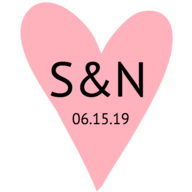
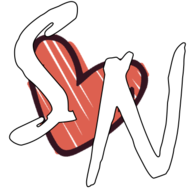
Update images

diff --git a/css/styles.min.css b/css/styles.min.css
@@ -1,1 +1,1 @@
-@import url(https://fonts.googleapis.com/css?family=Open+Sans:300italic,400italic,600italic,700italic,800italic,400,300,600,700,800);@import url(https://fonts.googleapis.com/css?family=Merriweather:400,300,400italic,300italic,700,700italic);@import url(https://fonts.googleapis.com/css?family=Nunito:400,300,700);p{font-size:15px;line-height:29px;color:rgba(28,54,83,0.6);padding-bottom:20px}h1{font-size:60px}h2{font-size:40px;font-weight:300;color:#3D4351}h3{color:#3D4351;font-size:18px;font-weight:700;text-transform:uppercase;letter-spacing:3px;line-height:29px}h4{font-size:18px}h5{font-size:15px;color:#3D4351;text-transform:uppercase;font-weight:500}.btn{font-size:13px;border:solid 2px;-moz-border-radius:40px;-webkit-border-radius:40px;border-radius:40px;display:inline-block;text-transform:uppercase}.btn:hover,.btn:focus{color:#fff;border-color:#e8ca6f;background-color:#e8ca6f}.btn-white{font-size:13px;border:solid 2px;-moz-border-radius:40px;-webkit-border-radius:40px;border-radius:40px;display:inline-block;border-color:#fff}.btn-white:hover,.btn-white:focus{color:#e8ca6f;border-color:#e8ca6f}.btn-fill{color:#fff;border:solid 2px #e8ca6f;-moz-border-radius:40px;-webkit-border-radius:40px;border-radius:40px;display:inline-block;text-transform:uppercase;background-color:#e8ca6f}.btn-fill:hover,.btn-fill:focus{color:#fff;background-color:#d3b56a;border-color:#d3b56a}.btn-small{padding:8px 30px}.btn-large{padding:15px 40px}.btn-margin-right{margin-right:20px}section.intro,section.features-extra,section.rsvp{background:#fff}section.features,section.events,section.blog{background:#f8f9fd}.group:after{content:"";display:table;clear:both}.no-padding{padding:0}.no-margin{margin:0}a{color:#e8ca6f;-webkit-transition-timing-function:ease;transition-timing-function:ease;-webkit-transition-duration:200ms;transition-duration:200ms;-webkit-transition-property:color, border-color, background-color;transition-property:color, border-color, background-color}a:hover,a:focus{color:#d3b56a;text-decoration:none}body{font-family:"Open Sans",sans-serif;font-weight:300;color:rgba(28,54,83,0.6);-webkit-text-size-adjust:100%}*:focus{outline:none !important}ul,ol{margin:0;padding:0}ul li{list-style:none}section .header{padding-bottom:30px}.section-padding{padding:40px 0}.section-border{border-bottom:1px solid #E6E9EA}.tooltip{position:absolute;z-index:1070;display:block;font-family:"Helvetica Neue", Helvetica, Arial, sans-serif;font-size:12px;font-weight:normal;line-height:1.4;visibility:visible;filter:alpha(opacity=0);opacity:0}.tooltip.in{filter:alpha(opacity=90);opacity:.9}.tooltip.top{padding:5px 0;margin-top:-3px}.tooltip.right{padding:0 5px;margin-left:3px}.tooltip.bottom{padding:5px 0;margin-top:3px}.tooltip.left{padding:0 5px;margin-left:-3px}.tooltip-inner{max-width:200px;padding:3px 8px;color:#fff;text-align:center;text-decoration:none;text-transform:capitalize;background-color:#000;border-radius:4px}.pulse2{animation-name:pulse2;animation-duration:1s;animation-iteration-count:infinite;animation-timing-function:linear}@keyframes pulse2{0%{transform:scale(1.1)}50%{transform:scale(0.8)}100%{transform:scale(1)}}.floating-arrow{animation-name:floating-arrow;animation-duration:2s;animation-iteration-count:infinite;animation-timing-function:ease-in-out}@keyframes floating-arrow{from{transform:translate(-50%, 0)}65%{transform:translate(-50%, 15px)}to{transform:translate(-50%, 0)}}.floating-logo{animation-name:floating-logo;animation-duration:2s;animation-iteration-count:infinite;animation-timing-function:ease-in-out}@keyframes floating-logo{from{transform:translate(-50%, 0)}50%{transform:translate(-50%, 10px)}to{transform:translate(-50%, 0)}}.wp1,.wp2,.wp3,.wp4,.wp5,.wp6,.wp7,.wp8,.wp9{visibility:hidden}.wp8,.wp9{-webkit-animation-delay:0.3s;animation-delay:0.3s}.bounceInLeft,.bounceInRight,.fadeInUp,.fadeInUpDelay,.fadeInDown,.fadeInUpD,.fadeInLeft,.fadeInRight,.bounceInDown{visibility:visible}.header-nav.open{visibility:visible;opacity:0.9;-webkit-transition:opacity 0.5s;transition:opacity 0.5s}.nav-toggle{position:absolute;top:0;right:15px;z-index:999999;padding:10px 35px 16px 0;cursor:pointer}.nav-toggle:focus{outline:none}.nav-toggle span,.nav-toggle span:before,.nav-toggle span:after{content:"";position:absolute;display:block;width:35px;height:3px;-moz-border-radius:1px;-webkit-border-radius:1px;border-radius:1px;background:#fff;cursor:pointer}.nav-toggle span:before{top:-10px}.nav-toggle span:after{bottom:-10px}.nav-toggle span,.nav-toggle span:before,.nav-toggle span:after{-moz-transition:all 300ms ease-in-out;-o-transition:all 300ms ease-in-out;-webkit-transition:all 300ms ease-in-out;transition:all 300ms ease-in-out}.nav-toggle.active span{background-color:transparent}.nav-toggle.active span:before,.nav-toggle.active span:after{top:0}.nav-toggle.active span:before{-moz-transform:rotate(45deg);-ms-transform:rotate(45deg);-o-transform:rotate(45deg);-webkit-transform:rotate(45deg);transform:rotate(45deg)}.nav-toggle.active span:after{top:10px;-moz-transform:translatey(-10px) rotate(-45deg);-ms-transform:translatey(-10px) rotate(-45deg);-o-transform:translatey(-10px) rotate(-45deg);-webkit-transform:translatey(-10px) rotate(-45deg);transform:translatey(-10px) rotate(-45deg)}.navicon{position:absolute;height:26px;right:10px;top:48px;visibility:hidden;transition:all 300ms ease-in-out}.hero{min-height:750px;background:url("../img/hero-min.jpg") center center;-webkit-background-size:cover;-moz-background-size:cover;-o-background-size:cover;background-size:cover;position:relative}.hero .down-arrow a{color:#fff}.hero h1{color:#fff;margin-bottom:40px}.hero p.intro{color:#fff;font-size:20px;font-weight:300;margin-bottom:80px}.hero .hero-content{padding-top:40%}.hero .hero-content img{width:55%;margin-bottom:12%}.navigation{transition:all 300ms ease-in-out;position:fixed;width:100%;z-index:999}.fixed{position:fixed;background-color:rgba(55,36,40,0.88);z-index:999;width:100%}.fixed a{color:#fff}header{padding:50px 0;border-bottom:solid 1px rgba(255,255,255,0.2);position:relative;width:1170px;margin:0 auto;transition:padding 300ms ease-in-out}header a{color:rgba(28,54,83,0.6);text-transform:uppercase;font-size:13px}header a.login{margin-right:20px}header .logo{display:inline-block}header .logo img{height:19px}header ul.primary-nav{margin:0 0 0 75px;padding:0}header ul.primary-nav li{display:inline}header ul.primary-nav li a{padding-right:25px}header ul.primary-nav li a:hover{color:#e8ca6f}header ul.primary-nav li:last-child a{padding-right:0px}header ul.member-actions li{display:inline}header ul.member-actions li a{color:#fff}header ul.member-actions li a:hover{color:#e8ca6f}header .header-nav{display:inline-block}header .member-actions{position:absolute;right:0;top:41px;transition:all 300ms ease-in-out}.down-arrow{color:#fff;font-size:30px;position:absolute;bottom:30px;left:50%;transform:translateX(-50%)}.share-bar{margin-top:20px}.intro span.icon{font-size:40px;color:#e8ca6f;font-weight:bold}.intro-icon{display:inline-block;vertical-align:top;padding:6px 0 0 0;margin-right:20px;width:40px}.intro-content{display:inline-block;width:80%}#intro{padding-top:40px}#intro img{width:100%;height:auto}#intro p{text-align:center}.features{position:relative}.features p{margin-bottom:0;padding-bottom:0}.features h3{margin:0 0 20px 0}.features span.icon{font-size:35px;color:#e8ca6f;font-weight:bold}.features .feature-icon{display:inline-block;vertical-align:top;padding:6px 0 0 0;margin-right:20px;width:35px}.features .feature-content{display:inline-block;width:75%}.features .intro-icon{display:inline-block;vertical-align:top;padding:6px 0 0 0;margin-right:20px}.features .intro-content{display:inline-block;width:80%}.features ul.features-stack{margin-top:50px}.features ul.features-stack li{margin-top:20px;padding-bottom:20px;border-bottom:solid 1px #E6E9EA}.features ul.features-stack li:last-child{padding-bottom:0px;border-bottom:none}.features .ipad-wrap{width:706px;height:1002px;background:url("../img/ipad-device.png") no-repeat center center;z-index:1}.features .iphone-wrap{width:304px;height:620px;background:url("../img/iphone6.png") no-repeat center center;position:absolute;left:530px;bottom:129px;z-index:2}.features .device-showcase{position:absolute;bottom:-365px;right:61%}.features .responsive-feature-img,.features-extra .responsive-feature-img{display:none}.devices{position:relative}.features-extra{position:relative;z-index:3}.features-extra .btn{margin-top:20px}.features-extra .macbook-wrap{position:absolute;width:916px;height:540px;background:url("../img/macbook-pro.png") no-repeat center center;top:114px;z-index:4;left:50%}.hero-strip{margin-top:120px;background:#333844 url("../img/polygonal-bg.jpg") no-repeat center center;padding-bottom:190px;position:relative}.hero-strip i{font-family:"Nunito",sans-serif;font-weight:300;font-size:25px;color:#F69D52;vertical-align:top;margin-left:-8px;font-style:normal}.hero-strip h2{color:#fff;margin:0 0 20px 0}.hero-strip p{color:#ACB1B4}.hero-strip .btn{margin-top:10px}.hero-strip .logo-placeholder{width:230px;height:230px;position:absolute;bottom:-285px;left:50%;transform:translateX(-50%)}.events .leftcol{padding-right:100px;border-right:solid 1px #E6E9EA}.events .rightcol{padding-left:100px}.events .time{font-size:13px;font-style:italic;text-transform:lowercase;color:rgba(28,54,83,0.6)}.blog{padding-bottom:120px}.blog img{width:100%;height:auto;-moz-transition:all 300ms ease-in-out;-o-transition:all 300ms ease-in-out;-webkit-transition:all 300ms ease-in-out;transition:all 300ms ease-in-out}.blog h2{font-size:11px;color:#ACB1B4;font-weight:500;text-transform:uppercase;margin-top:35px}.blog .btn{margin-top:20px}.blog .blog-img-wrap{position:relative;overflow:hidden}.blog .blog-img-wrap .overlay{position:absolute;width:100%;height:100%;background-color:rgba(255,255,255,0.5);-moz-transition:all 300ms ease-in-out;-o-transition:all 300ms ease-in-out;-webkit-transition:all 300ms ease-in-out;transition:all 300ms ease-in-out;-ms-filter:"progid:DXImageTransform.Microsoft.Alpha(Opacity=0)";filter:alpha(opacity=0);opacity:0}.blog .blog-img-wrap i{color:#fff;font-size:20px;position:absolute;width:20px;height:20px;top:25px;right:35px}.blog .blog-img-wrap:hover img,.blog .blog-img-wrap:focus img{-moz-transform:scale(1.1);-ms-transform:scale(1.1);-o-transform:scale(1.1);-webkit-transform:scale(1.1);transform:scale(1.1)}.blog .blog-img-wrap:hover .overlay,.blog .blog-img-wrap:focus .overlay{-ms-filter:"progid:DXImageTransform.Microsoft.Alpha(Opacity=1)";filter:alpha(opacity=1);opacity:1;z-index:9}.blog figcaption i{margin-left:5px;font-size:15px}.blog figcaption a.blog-post-title{color:rgba(28,54,83,0.6)}.blog figcaption a.blog-post-title:hover,.blog figcaption a.blog-post-title:focus{color:#3D4351}#instagram img{width:100%}#eng-pics img{width:100%;height:auto;-moz-transition:all 300ms ease-in-out;-o-transition:all 300ms ease-in-out;-webkit-transition:all 300ms ease-in-out;transition:all 300ms ease-in-out}#eng-pics .img-wrap{position:relative;overflow:hidden;border-radius:4px}#eng-pics .img-wrap .overlay{position:absolute;width:100%;height:100%;background-color:rgba(255,255,255,0.5);-moz-transition:all 300ms ease-in-out;-o-transition:all 300ms ease-in-out;-webkit-transition:all 300ms ease-in-out;transition:all 300ms ease-in-out;-ms-filter:"progid:DXImageTransform.Microsoft.Alpha(Opacity=0)";filter:alpha(opacity=0);opacity:0}#eng-pics .img-wrap i{color:#fff;font-size:15px;position:absolute;width:15px;height:15px;top:6px;right:6px}#eng-pics .img-wrap:hover img,#eng-pics .img-wrap:focus img{-moz-transform:scale(1.1);-ms-transform:scale(1.1);-o-transform:scale(1.1);-webkit-transform:scale(1.1);transform:scale(1.1)}#eng-pics .img-wrap:hover .overlay,#eng-pics .img-wrap:focus .overlay{-ms-filter:"progid:DXImageTransform.Microsoft.Alpha(Opacity=1)";filter:alpha(opacity=1);opacity:1;z-index:9}#eng-pics .diamond{width:230px;height:230px;position:absolute;bottom:-145px;left:50%;transform:translateX(-50%);z-index:500}#eng-pics .ring{width:75px;height:75px;border-radius:75px;border:10px solid #d0d3d4;position:absolute;left:34%;top:75%;z-index:-1}#video-bg{height:300px}#video-content{width:100%;height:100%;padding-top:100px;position:relative;background:rgba(17,17,17,0.5);text-align:center}#video-content h5{color:#ffffff;font-size:30px;font-weight:300;letter-spacing:10px}#video-content p{color:#ffffff}#map-canvas{height:500px;width:100%}#map-content-wrapper{position:relative;margin-top:-502px;margin-bottom:150px}#map-content{margin-top:40px;padding:50px 60px;background:#fff;-webkit-transition:opacity 0.5s, visibility 0.6s, margin-top 0.5s;transition:opacity 0.5s, visibility 0.6s, margin-top 0.5s}#btn-show-content{padding:20px;background:#fff;cursor:pointer;display:inline-block;-webkit-transition:opacity 0.5s, visibility 0.6s, margin-top 0.5s;transition:opacity 0.5s, visibility 0.6s, margin-top 0.5s}.toggle-map-content{opacity:0;visibility:hidden}.pointer-events-none{pointer-events:none}.pointer-events-auto{pointer-events:auto}.rsvp{padding-bottom:140px}.rsvp .rsvp-form .rsvp-btn{padding:15px 0;border-radius:3px;width:100%;font-size:13px}.rsvp .rsvp-form .form-input-group{width:100%;height:55px;margin:0 auto 10px;-moz-border-radius:5px;-webkit-border-radius:5px;border-radius:5px;border:solid 1px #E6E9EA;text-align:left;position:relative}.rsvp .rsvp-form .form-input-group i{color:#e8ca6f;font-size:14px}.rsvp .rsvp-form .form-input-group i:after{content:"";height:30px;width:1px;border-right:solid 1px #E6E9EA;position:absolute;top:50%;left:30px;transform:translateY(-50%)}.rsvp .rsvp-form .form-input-group i.fa-user,.rsvp .rsvp-form .form-input-group i.fa-users,.rsvp .rsvp-form .form-input-group i.fa-envelope,.rsvp .rsvp-form .form-input-group .fa-key{font-size:14px;position:absolute;top:50%;transform:translateY(-50%);margin-left:20px}.rsvp .rsvp-form .form-input-group input{padding-left:68px;width:100%;height:100%;-moz-border-radius:6px;-webkit-border-radius:6px;border-radius:6px;border:none}.rsvp .rsvp-form .form-input-group input::-webkit-input-placeholder{color:#BCC1C3}.rsvp .rsvp-form .form-input-group input:-moz-placeholder{color:#BCC1C3}.rsvp .rsvp-form .form-input-group input::-moz-placeholder{color:#BCC1C3}.rsvp .rsvp-form .form-input-group input:-ms-input-placeholder{color:#BCC1C3}footer .content{border-top:1px solid #E6E9EA;padding-bottom:20px}footer .to-top-wrapper{font-size:30px;display:block;cursor:pointer;margin:-25px auto 50px;border-radius:50%;width:50px;height:50px;border:1px solid #E6E9EA;background:#fff}footer .to-top-wrapper .to-top{display:block;-webkit-transition:all .3s ease-in-out;-moz-transition:all .3s ease-in-out;-ms-transition:all .3s ease-in-out;-o-transition:all .3s ease-in-out;transition:all .3s ease-in-out}footer .to-top-wrapper .to-top:hover{margin-top:-5px}footer span.fa-heart{color:#ff415c;font-size:18px;margin:0 2px}body.modal-open{padding-right:0 !important}.modal-body{padding:25px}
+@import url(https://fonts.googleapis.com/css?family=Open+Sans:300italic,400italic,600italic,700italic,800italic,400,300,600,700,800);@import url(https://fonts.googleapis.com/css?family=Merriweather:400,300,400italic,300italic,700,700italic);@import url(https://fonts.googleapis.com/css?family=Nunito:400,300,700);p{font-size:15px;line-height:29px;color:rgba(28,54,83,0.6);padding-bottom:20px}h1{font-size:60px}h2{font-size:40px;font-weight:300;color:#3D4351}h3{color:#3D4351;font-size:18px;font-weight:700;text-transform:uppercase;letter-spacing:3px;line-height:29px}h4{font-size:18px}h5{font-size:15px;color:#3D4351;text-transform:uppercase;font-weight:500}.btn{font-size:13px;border:solid 2px;-moz-border-radius:40px;-webkit-border-radius:40px;border-radius:40px;display:inline-block;text-transform:uppercase}.btn:hover,.btn:focus{color:#fff;border-color:#e8ca6f;background-color:#e8ca6f}.btn-white{font-size:13px;border:solid 2px;-moz-border-radius:40px;-webkit-border-radius:40px;border-radius:40px;display:inline-block;border-color:#fff}.btn-white:hover,.btn-white:focus{color:#e8ca6f;border-color:#e8ca6f}.btn-fill{color:#fff;border:solid 2px #e8ca6f;-moz-border-radius:40px;-webkit-border-radius:40px;border-radius:40px;display:inline-block;text-transform:uppercase;background-color:#e8ca6f}.btn-fill:hover,.btn-fill:focus{color:#fff;background-color:#d3b56a;border-color:#d3b56a}.btn-small{padding:8px 30px}.btn-large{padding:15px 40px}.btn-margin-right{margin-right:20px}section.intro,section.features-extra,section.rsvp{background:#fff}section.features,section.events,section.blog{background:#f8f9fd}.group:after{content:"";display:table;clear:both}.no-padding{padding:0}.no-margin{margin:0}a{color:#e8ca6f;-webkit-transition-timing-function:ease;transition-timing-function:ease;-webkit-transition-duration:200ms;transition-duration:200ms;-webkit-transition-property:color, border-color, background-color;transition-property:color, border-color, background-color}a:hover,a:focus{color:#d3b56a;text-decoration:none}body{font-family:"Open Sans",sans-serif;font-weight:300;color:rgba(28,54,83,0.6);-webkit-text-size-adjust:100%}*:focus{outline:none !important}ul,ol{margin:0;padding:0}ul li{list-style:none}section .header{padding-bottom:30px}.section-padding{padding:40px 0}.section-border{border-bottom:1px solid #E6E9EA}.tooltip{position:absolute;z-index:1070;display:block;font-family:"Helvetica Neue", Helvetica, Arial, sans-serif;font-size:12px;font-weight:normal;line-height:1.4;visibility:visible;filter:alpha(opacity=0);opacity:0}.tooltip.in{filter:alpha(opacity=90);opacity:.9}.tooltip.top{padding:5px 0;margin-top:-3px}.tooltip.right{padding:0 5px;margin-left:3px}.tooltip.bottom{padding:5px 0;margin-top:3px}.tooltip.left{padding:0 5px;margin-left:-3px}.tooltip-inner{max-width:200px;padding:3px 8px;color:#fff;text-align:center;text-decoration:none;text-transform:capitalize;background-color:#000;border-radius:4px}.pulse2{animation-name:pulse2;animation-duration:1s;animation-iteration-count:infinite;animation-timing-function:linear}@keyframes pulse2{0%{transform:scale(1.1)}50%{transform:scale(0.8)}100%{transform:scale(1)}}.floating-arrow{animation-name:floating-arrow;animation-duration:2s;animation-iteration-count:infinite;animation-timing-function:ease-in-out}@keyframes floating-arrow{from{transform:translate(-50%, 0)}65%{transform:translate(-50%, 15px)}to{transform:translate(-50%, 0)}}.floating-logo{animation-name:floating-logo;animation-duration:2s;animation-iteration-count:infinite;animation-timing-function:ease-in-out}@keyframes floating-logo{from{transform:translate(-50%, 0)}50%{transform:translate(-50%, 10px)}to{transform:translate(-50%, 0)}}.wp1,.wp2,.wp3,.wp4,.wp5,.wp6,.wp7,.wp8,.wp9{visibility:hidden}.wp8,.wp9{-webkit-animation-delay:0.3s;animation-delay:0.3s}.bounceInLeft,.bounceInRight,.fadeInUp,.fadeInUpDelay,.fadeInDown,.fadeInUpD,.fadeInLeft,.fadeInRight,.bounceInDown{visibility:visible}.header-nav.open{visibility:visible;opacity:0.9;-webkit-transition:opacity 0.5s;transition:opacity 0.5s}.nav-toggle{position:absolute;top:0;right:15px;z-index:999999;padding:10px 35px 16px 0;cursor:pointer}.nav-toggle:focus{outline:none}.nav-toggle span,.nav-toggle span:before,.nav-toggle span:after{content:"";position:absolute;display:block;width:35px;height:3px;-moz-border-radius:1px;-webkit-border-radius:1px;border-radius:1px;background:#fff;cursor:pointer}.nav-toggle span:before{top:-10px}.nav-toggle span:after{bottom:-10px}.nav-toggle span,.nav-toggle span:before,.nav-toggle span:after{-moz-transition:all 300ms ease-in-out;-o-transition:all 300ms ease-in-out;-webkit-transition:all 300ms ease-in-out;transition:all 300ms ease-in-out}.nav-toggle.active span{background-color:transparent}.nav-toggle.active span:before,.nav-toggle.active span:after{top:0}.nav-toggle.active span:before{-moz-transform:rotate(45deg);-ms-transform:rotate(45deg);-o-transform:rotate(45deg);-webkit-transform:rotate(45deg);transform:rotate(45deg)}.nav-toggle.active span:after{top:10px;-moz-transform:translatey(-10px) rotate(-45deg);-ms-transform:translatey(-10px) rotate(-45deg);-o-transform:translatey(-10px) rotate(-45deg);-webkit-transform:translatey(-10px) rotate(-45deg);transform:translatey(-10px) rotate(-45deg)}.navicon{position:absolute;height:26px;right:10px;top:48px;visibility:hidden;transition:all 300ms ease-in-out}.hero{min-height:750px;background:url("../img/hero-min.jpg") center center;-webkit-background-size:cover;-moz-background-size:cover;-o-background-size:cover;background-size:cover;position:relative}.hero .down-arrow a{color:#fff}.hero h1{color:#fff;margin-bottom:40px}.hero p.intro{color:#fff;font-size:20px;font-weight:300;margin-bottom:80px}.hero .hero-content{padding-top:40%}.hero .hero-content img{width:55%;margin-bottom:12%;margin-top:10%}.navigation{transition:all 300ms ease-in-out;position:fixed;width:100%;z-index:999}.fixed{position:fixed;background-color:rgba(55,36,40,0.88);z-index:999;width:100%}.fixed a{color:#fff}header{padding:50px 0;border-bottom:solid 1px rgba(255,255,255,0.2);position:relative;width:1170px;margin:0 auto;transition:padding 300ms ease-in-out}header a{color:rgba(28,54,83,0.6);text-transform:uppercase;font-size:13px}header a.login{margin-right:20px}header .logo{display:inline-block}header .logo img{height:42px;width:42px}header ul.primary-nav{margin:0 0 0 75px;padding:0}header ul.primary-nav li{display:inline}header ul.primary-nav li a{padding-right:25px}header ul.primary-nav li a:hover{color:#e8ca6f}header ul.primary-nav li:last-child a{padding-right:0px}header ul.member-actions li{display:inline}header ul.member-actions li a{color:#fff}header ul.member-actions li a:hover{color:#e8ca6f}header .header-nav{display:inline-block}header .member-actions{position:absolute;right:0;top:41px;transition:all 300ms ease-in-out}.down-arrow{color:#fff;font-size:30px;position:absolute;bottom:30px;left:50%;transform:translateX(-50%)}.share-bar{margin-top:20px}.intro span.icon{font-size:40px;color:#e8ca6f;font-weight:bold}.intro-icon{display:inline-block;vertical-align:top;padding:6px 0 0 0;margin-right:20px;width:40px}.intro-content{display:inline-block;width:80%}#intro{padding-top:40px}#intro img{width:100%;height:auto}#intro p{text-align:center}.features{position:relative}.features p{margin-bottom:0;padding-bottom:0}.features h3{margin:0 0 20px 0}.features span.icon{font-size:35px;color:#e8ca6f;font-weight:bold}.features .feature-icon{display:inline-block;vertical-align:top;padding:6px 0 0 0;margin-right:20px;width:35px}.features .feature-content{display:inline-block;width:75%}.features .intro-icon{display:inline-block;vertical-align:top;padding:6px 0 0 0;margin-right:20px}.features .intro-content{display:inline-block;width:80%}.features ul.features-stack{margin-top:50px}.features ul.features-stack li{margin-top:20px;padding-bottom:20px;border-bottom:solid 1px #E6E9EA}.features ul.features-stack li:last-child{padding-bottom:0px;border-bottom:none}.features .ipad-wrap{width:706px;height:1002px;background:url("../img/ipad-device.png") no-repeat center center;z-index:1}.features .iphone-wrap{width:304px;height:620px;background:url("../img/iphone6.png") no-repeat center center;position:absolute;left:530px;bottom:129px;z-index:2}.features .device-showcase{position:absolute;bottom:-365px;right:61%}.features .responsive-feature-img,.features-extra .responsive-feature-img{display:none}.devices{position:relative}.features-extra{position:relative;z-index:3}.features-extra .btn{margin-top:20px}.features-extra .macbook-wrap{position:absolute;width:916px;height:540px;background:url("../img/macbook-pro.png") no-repeat center center;top:114px;z-index:4;left:50%}.hero-strip{margin-top:120px;background:#333844 url("../img/polygonal-bg.jpg") no-repeat center center;padding-bottom:190px;position:relative}.hero-strip i{font-family:"Nunito",sans-serif;font-weight:300;font-size:25px;color:#F69D52;vertical-align:top;margin-left:-8px;font-style:normal}.hero-strip h2{color:#fff;margin:0 0 20px 0}.hero-strip p{color:#ACB1B4}.hero-strip .btn{margin-top:10px}.hero-strip .logo-placeholder{width:230px;height:230px;position:absolute;bottom:-285px;left:50%;transform:translateX(-50%)}.events .leftcol{padding-right:100px;border-right:solid 1px #E6E9EA}.events .rightcol{padding-left:100px}.events .time{font-size:13px;font-style:italic;text-transform:lowercase;color:rgba(28,54,83,0.6)}.blog{padding-bottom:120px}.blog img{width:100%;height:auto;-moz-transition:all 300ms ease-in-out;-o-transition:all 300ms ease-in-out;-webkit-transition:all 300ms ease-in-out;transition:all 300ms ease-in-out}.blog h2{font-size:11px;color:#ACB1B4;font-weight:500;text-transform:uppercase;margin-top:35px}.blog .btn{margin-top:20px}.blog .blog-img-wrap{position:relative;overflow:hidden}.blog .blog-img-wrap .overlay{position:absolute;width:100%;height:100%;background-color:rgba(255,255,255,0.5);-moz-transition:all 300ms ease-in-out;-o-transition:all 300ms ease-in-out;-webkit-transition:all 300ms ease-in-out;transition:all 300ms ease-in-out;-ms-filter:"progid:DXImageTransform.Microsoft.Alpha(Opacity=0)";filter:alpha(opacity=0);opacity:0}.blog .blog-img-wrap i{color:#fff;font-size:20px;position:absolute;width:20px;height:20px;top:25px;right:35px}.blog .blog-img-wrap:hover img,.blog .blog-img-wrap:focus img{-moz-transform:scale(1.1);-ms-transform:scale(1.1);-o-transform:scale(1.1);-webkit-transform:scale(1.1);transform:scale(1.1)}.blog .blog-img-wrap:hover .overlay,.blog .blog-img-wrap:focus .overlay{-ms-filter:"progid:DXImageTransform.Microsoft.Alpha(Opacity=1)";filter:alpha(opacity=1);opacity:1;z-index:9}.blog figcaption i{margin-left:5px;font-size:15px}.blog figcaption a.blog-post-title{color:rgba(28,54,83,0.6)}.blog figcaption a.blog-post-title:hover,.blog figcaption a.blog-post-title:focus{color:#3D4351}#instagram img{width:100%}#eng-pics img{width:100%;height:auto;-moz-transition:all 300ms ease-in-out;-o-transition:all 300ms ease-in-out;-webkit-transition:all 300ms ease-in-out;transition:all 300ms ease-in-out}#eng-pics .img-wrap{position:relative;overflow:hidden;border-radius:4px}#eng-pics .img-wrap .overlay{position:absolute;width:100%;height:100%;background-color:rgba(255,255,255,0.5);-moz-transition:all 300ms ease-in-out;-o-transition:all 300ms ease-in-out;-webkit-transition:all 300ms ease-in-out;transition:all 300ms ease-in-out;-ms-filter:"progid:DXImageTransform.Microsoft.Alpha(Opacity=0)";filter:alpha(opacity=0);opacity:0}#eng-pics .img-wrap i{color:#fff;font-size:15px;position:absolute;width:15px;height:15px;top:6px;right:6px}#eng-pics .img-wrap:hover img,#eng-pics .img-wrap:focus img{-moz-transform:scale(1.1);-ms-transform:scale(1.1);-o-transform:scale(1.1);-webkit-transform:scale(1.1);transform:scale(1.1)}#eng-pics .img-wrap:hover .overlay,#eng-pics .img-wrap:focus .overlay{-ms-filter:"progid:DXImageTransform.Microsoft.Alpha(Opacity=1)";filter:alpha(opacity=1);opacity:1;z-index:9}#eng-pics .diamond{width:230px;height:230px;position:absolute;bottom:-145px;left:50%;transform:translateX(-50%);z-index:500}#eng-pics .ring{width:75px;height:75px;border-radius:75px;border:10px solid #d0d3d4;position:absolute;left:34%;top:75%;z-index:-1}#video-bg{height:300px}#video-content{width:100%;height:100%;padding-top:100px;position:relative;background:rgba(17,17,17,0.5);text-align:center}#video-content h5{color:#ffffff;font-size:30px;font-weight:300;letter-spacing:10px}#video-content p{color:#ffffff}#map-canvas{height:500px;width:100%}#map-content-wrapper{position:relative;margin-top:-502px;margin-bottom:150px}#map-content{margin-top:40px;padding:50px 60px;background:#fff;-webkit-transition:opacity 0.5s, visibility 0.6s, margin-top 0.5s;transition:opacity 0.5s, visibility 0.6s, margin-top 0.5s}#btn-show-content{padding:20px;background:#fff;cursor:pointer;display:inline-block;-webkit-transition:opacity 0.5s, visibility 0.6s, margin-top 0.5s;transition:opacity 0.5s, visibility 0.6s, margin-top 0.5s}.toggle-map-content{opacity:0;visibility:hidden}.pointer-events-none{pointer-events:none}.pointer-events-auto{pointer-events:auto}.rsvp{padding-bottom:140px}.rsvp .rsvp-form .rsvp-btn{padding:15px 0;border-radius:3px;width:100%;font-size:13px}.rsvp .rsvp-form .form-input-group{width:100%;height:55px;margin:0 auto 10px;-moz-border-radius:5px;-webkit-border-radius:5px;border-radius:5px;border:solid 1px #E6E9EA;text-align:left;position:relative}.rsvp .rsvp-form .form-input-group i{color:#e8ca6f;font-size:14px}.rsvp .rsvp-form .form-input-group i:after{content:"";height:30px;width:1px;border-right:solid 1px #E6E9EA;position:absolute;top:50%;left:30px;transform:translateY(-50%)}.rsvp .rsvp-form .form-input-group i.fa-user,.rsvp .rsvp-form .form-input-group i.fa-users,.rsvp .rsvp-form .form-input-group i.fa-envelope,.rsvp .rsvp-form .form-input-group .fa-key{font-size:14px;position:absolute;top:50%;transform:translateY(-50%);margin-left:20px}.rsvp .rsvp-form .form-input-group input{padding-left:68px;width:100%;height:100%;-moz-border-radius:6px;-webkit-border-radius:6px;border-radius:6px;border:none}.rsvp .rsvp-form .form-input-group input::-webkit-input-placeholder{color:#BCC1C3}.rsvp .rsvp-form .form-input-group input:-moz-placeholder{color:#BCC1C3}.rsvp .rsvp-form .form-input-group input::-moz-placeholder{color:#BCC1C3}.rsvp .rsvp-form .form-input-group input:-ms-input-placeholder{color:#BCC1C3}footer .content{border-top:1px solid #E6E9EA;padding-bottom:20px}footer .to-top-wrapper{font-size:30px;display:block;cursor:pointer;margin:-25px auto 50px;border-radius:50%;width:50px;height:50px;border:1px solid #E6E9EA;background:#fff}footer .to-top-wrapper .to-top{display:block;-webkit-transition:all .3s ease-in-out;-moz-transition:all .3s ease-in-out;-ms-transition:all .3s ease-in-out;-o-transition:all .3s ease-in-out;transition:all .3s ease-in-out}footer .to-top-wrapper .to-top:hover{margin-top:-5px}footer span.fa-heart{color:#ff415c;font-size:18px;margin:0 2px}body.modal-open{padding-right:0 !important}.modal-body{padding:25px}

diff --git a/index.html b/index.html
@@ -72,10 +72,7 @@
         <div class="row">
             <div class="col-md-10 col-md-offset-1">
                 <div class="hero-content text-center">
-                    <!--<h1>Ram and Antara</h1>-->
                     <img src="img/logo-lg.png">
-                    <!--<p class="intro">Ram & Antara are getting hitched!</p>-->
-                    <!--<a href="#" class="btn btn-fill btn-large btn-margin-right">Scroll Down</a> -->
                 </div>
             </div>
         </div>

diff --git a/sass/styles.scss b/sass/styles.scss
@@ -283,6 +283,7 @@ Hero
   .hero-content img {
     width: 55%;
     margin-bottom: 12%;
+    margin-top: 10%;
   }
 }
 .navigation {
@@ -322,7 +323,8 @@ header {
     display: inline-block;
   }
   .logo img {
-    height: 19px;
+    height: 42px;
+    width: 42px;
   }
   ul.primary-nav {
     margin: 0 0 0 75px;
